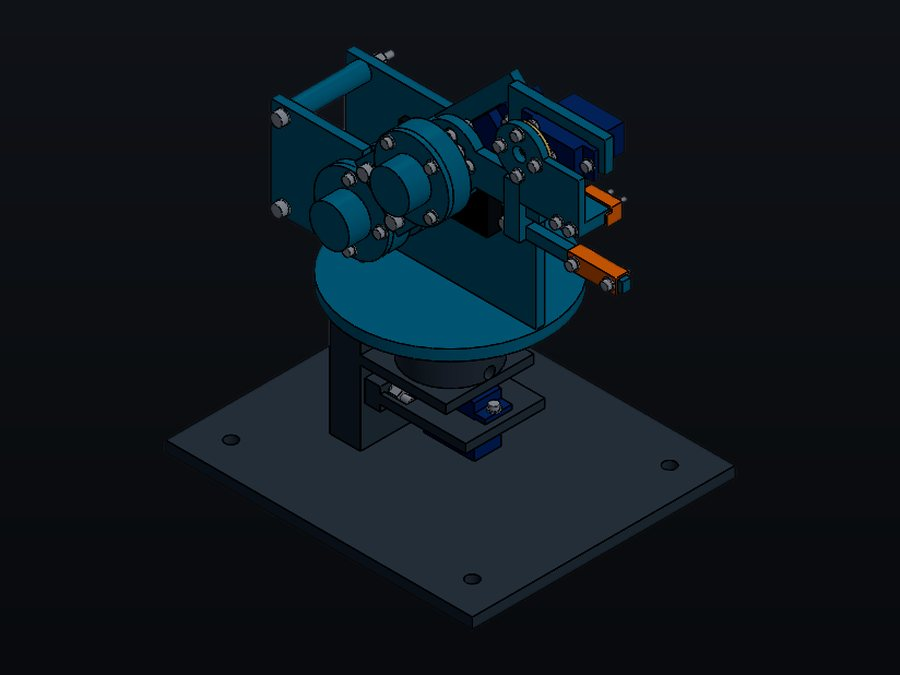
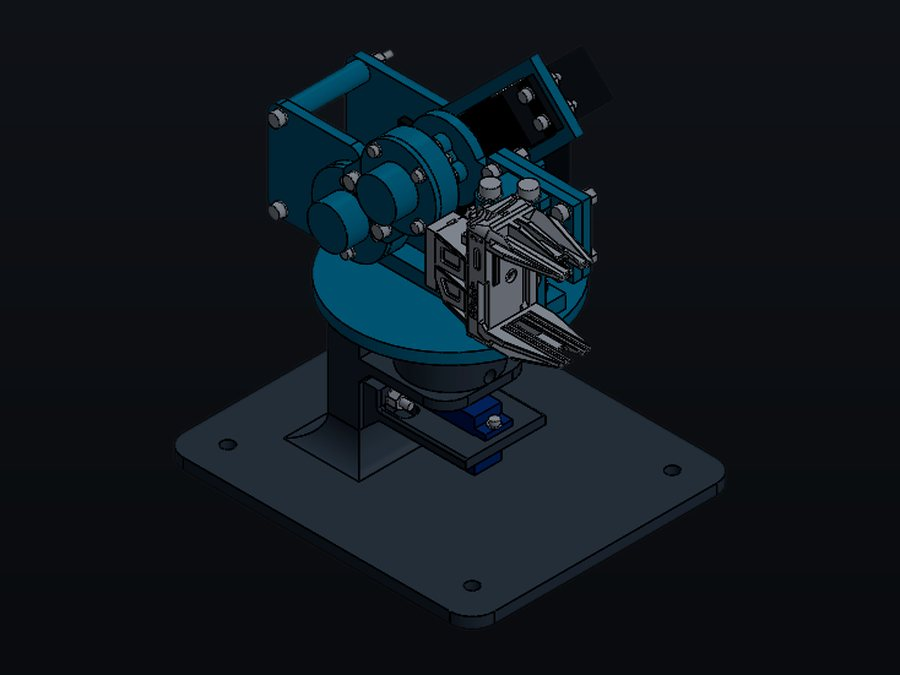
Rev 4; eoat structure changes
gripper, COTS, parallel grippers

diff --git a/project-automation-cell.html b/project-automation-cell.html
@@ -4,11 +4,11 @@
 <meta charset="UTF-8">
 <meta name="viewport" content="width=device-width, initial-scale=1.0">
 <title>EOAT Automation Cell — 4-DOF Arm Prototype — Luis Garcia</title>
-<meta name="description" content="Solo build of a 4-DOF servo arm and PLC-supervised pick cell: SolidWorks assembly of 199 components, first-principles torque budget, and a staged plan to measured validation.">
+<meta name="description" content="Solo-designed 4-DOF servo arm and PLC-supervised pick cell: a 198-component SolidWorks assembly with a modular parallel gripper and a first-principles torque budget.">
 <link rel="canonical" href="https://luisg54.github.io/engineering-portfolio/project-automation-cell.html">
 <meta property="og:title" content="EOAT Automation Cell — 4-DOF Arm Prototype — Luis Garcia">
-<meta property="og:description" content="Solo build of a 4-DOF servo arm and PLC-supervised pick cell: SolidWorks assembly of 199 components, first-principles torque budget, and a staged plan to measured validation.">
-<meta property="og:image" content="https://luisg54.github.io/engineering-portfolio/images/arm-hero.jpg">
+<meta property="og:description" content="Solo-designed 4-DOF servo arm and PLC-supervised pick cell: a 198-component SolidWorks assembly with a modular parallel gripper and a first-principles torque budget.">
+<meta property="og:image" content="https://luisg54.github.io/engineering-portfolio/images/arm-hero.jpg?v=revd">
 <meta property="og:url" content="https://luisg54.github.io/engineering-portfolio/project-automation-cell.html">
 <meta property="og:type" content="article">
 <meta name="twitter:card" content="summary_large_image">
@@ -101,9 +101,9 @@ a:focus-visible,button:focus-visible{outline:2px solid var(--accent);outline-off
 </nav>
 
 <div class="proj-hero" style="margin-top:52px;position:relative;overflow:hidden;background:#0a0a0a">
-  <img src="images/arm-hero.jpg" alt="Isometric SolidWorks render of the 4-DOF servo arm prototype on its bench base plate" style="width:100%;max-height:520px;object-fit:cover;object-position:center 45%;display:block" fetchpriority="high">
+  <img src="images/arm-hero.jpg?v=revd" alt="Isometric SolidWorks render of the Revision D arm prototype, showing the yaw platform, both pitch joints and the modular parallel gripper on its bench base plate" style="width:100%;max-height:520px;object-fit:cover;object-position:center 45%;display:block" fetchpriority="high">
   <div style="position:absolute;inset:0;background:linear-gradient(to bottom,transparent 35%,rgba(0,0,0,0.92) 100%)"></div>
-  <div style="position:absolute;top:16px;right:16px;display:inline-flex;align-items:center;gap:6px;background:rgba(0,0,0,0.5);border:1px solid rgba(255,255,255,0.15);border-radius:980px;padding:5px 12px;font-size:11px;color:rgba(255,255,255,0.55);letter-spacing:.04em;backdrop-filter:blur(8px)">SolidWorks 2026 · Revision B assembly</div>
+  <div style="position:absolute;top:16px;right:16px;display:inline-flex;align-items:center;gap:6px;background:rgba(0,0,0,0.5);border:1px solid rgba(255,255,255,0.15);border-radius:980px;padding:5px 12px;font-size:11px;color:rgba(255,255,255,0.55);letter-spacing:.04em;backdrop-filter:blur(8px)">SolidWorks 2026 · Revision D assembly</div>
   <div class="proj-hero-title">
     <div class="proj-hero-label">03 · Personal Project · Jun 2026 – Present</div>
     <h1 class="proj-hero-name">EOAT Automation Cell — 4-DOF Arm Prototype</h1>
@@ -118,19 +118,19 @@ a:focus-visible,button:focus-visible{outline:2px solid var(--accent);outline-off
   <div class="proj-section fade">
     <div class="metrics-row">
       <div class="big-metric"><div class="big-metric-num">4</div><div class="big-metric-label">Actuated DOF — yaw, shoulder, elbow, grip</div></div>
-      <div class="big-metric"><div class="big-metric-num">199</div><div class="big-metric-label">Components in the native assembly</div></div>
-      <div class="big-metric"><div class="big-metric-num">15</div><div class="big-metric-label">Printed part types, 21 instances</div></div>
-      <div class="big-metric"><div class="big-metric-num">2.2×</div><div class="big-metric-label">Shoulder torque margin (CAD estimate)</div></div>
+      <div class="big-metric"><div class="big-metric-num">198</div><div class="big-metric-label">Components in the native assembly</div></div>
+      <div class="big-metric"><div class="big-metric-num">15</div><div class="big-metric-label">Printed part types, 23 instances</div></div>
+      <div class="big-metric"><div class="big-metric-num">32 mm</div><div class="big-metric-label">Parallel jaw stroke (purchased tool)</div></div>
     </div>
     <div class="tags-row">
       <span class="tag">SolidWorks 2026</span><span class="tag">SolidWorks API / Python</span>
       <span class="tag">Design for 3D Printing</span><span class="tag">Tolerance &amp; Fit</span>
-      <span class="tag">Servo Sizing</span><span class="tag">Allen-Bradley Micro820</span>
+      <span class="tag">Servo Sizing</span><span class="tag">COTS Integration</span><span class="tag">Parallel Gripper</span><span class="tag">Allen-Bradley Micro820</span>
       <span class="tag">Arduino / C++</span><span class="tag">Test Planning</span>
     </div>
     <div class="prop-notice">
       <div class="prop-notice-icon">⏳</div>
-      <div class="prop-notice-text"><strong>Nothing on this page has been built or measured yet.</strong> The arm exists as a fully constrained native SolidWorks assembly with working joints; every number below is a CAD-derived estimate or a design target, and is labelled as such. The Results table stays empty until it is filled from physical test data.</div>
+      <div class="prop-notice-text"><strong>Nothing on this page has been built or measured yet.</strong> The arm exists as a fully constrained native SolidWorks assembly with working joints, now at Revision D; every number below is a CAD-derived estimate or a design target, and is labelled as such. No parts have been printed and no hardware has been purchased. The Results table stays empty until it is filled from physical test data.</div>
     </div>
     <a class="repo-link" href="https://github.com/luisg54/eoat-automation-cell" target="_blank" rel="noopener">
       <svg width="15" height="15" fill="currentColor" viewBox="0 0 16 16"><path d="M8 0C3.58 0 0 3.58 0 8c0 3.54 2.29 6.53 5.47 7.59.4.07.55-.17.55-.38 0-.19-.01-.82-.01-1.49-2.01.37-2.53-.49-2.69-.94-.09-.23-.48-.94-.82-1.13-.28-.15-.68-.52-.01-.53.63-.01 1.08.58 1.23.82.72 1.21 1.87.87 2.33.66.07-.52.28-.87.51-1.07-1.78-.2-3.64-.89-3.64-3.95 0-.87.31-1.59.82-2.15-.08-.2-.36-1.02.08-2.12 0 0 .67-.21 2.2.82.64-.18 1.32-.27 2-.27s1.36.09 2 .27c1.53-1.04 2.2-.82 2.2-.82.44 1.1.16 1.92.08 2.12.51.56.82 1.27.82 2.15 0 3.07-1.87 3.75-3.65 3.95.29.25.54.73.54 1.48 0 1.07-.01 1.93-.01 2.2 0 .21.15.46.55.38A8.01 8.01 0 0016 8c0-4.42-3.58-8-8-8z"/></svg>
@@ -153,30 +153,31 @@ a:focus-visible,button:focus-visible{outline:2px solid var(--accent);outline-off
   </div>
 
   <div class="proj-section fade">
-    <div class="proj-section-label">Current CAD — Revision B</div>
-    <p class="proj-p">The prototype is a <strong>4-DOF articulated arm</strong>: base yaw, shoulder pitch, elbow pitch, and a single-finger gripper, driven by three SG90 micro servos and one MG996R at the shoulder. It is modelled natively in SolidWorks 2026 as editable parts and a real mated assembly — not a static arrangement of meshes — so joint travel can actually be exercised in CAD.</p>
+    <div class="proj-section-label">Current CAD — Revision D</div>
+    <p class="proj-p">The prototype is a <strong>4-DOF articulated arm</strong>: base yaw, shoulder pitch, elbow pitch, and a gripper. It is modelled natively in SolidWorks 2026 as editable parts and a real mated assembly — not a static arrangement of meshes — so joint travel can actually be exercised in CAD.</p>
+    <p class="proj-p">Revision D is the fourth pass, and it changed the architecture rather than the details. The printed single-finger gripper is gone, replaced by a <strong>purchased parallel gripper on a removable printed fork</strong>, so the tool is now a swappable interface instead of part of the arm. Both pitch joints moved to <strong>MG996R servos sharing one common horn interface</strong> — the same OD20 / PCD14 metal horn and 32 mm standoff spacing at the shoulder and the elbow — and the old single yaw-platform-plus-upright part was split into a separate platform and a bolt-on upright so each one prints and services independently.</p>
 
     <div class="gallery">
       <figure class="shot">
-        <img src="images/arm-cover.jpg" alt="Isometric view of the arm assembly showing the base plate, yaw platform, bearing-supported shoulder and elbow, and gripper" loading="lazy">
-        <figcaption class="shot-cap"><b>Isometric — full assembly.</b> Base pedestal and bolt-down plate, yaw platform on a stacked 608ZZ pair, and the removable servo cassette underneath.</figcaption>
+        <img src="images/arm-cover.jpg?v=revd" alt="Isometric view of the Revision D assembly showing the base plate, yaw platform, both bearing-supported pitch joints and the parallel gripper" loading="lazy">
+        <figcaption class="shot-cap"><b>Isometric — full assembly.</b> Base pedestal and bolt-down plate, yaw platform on a stacked 608ZZ pair, removable yaw-servo cassette underneath, and the parallel gripper carried on the modular forearm.</figcaption>
       </figure>
       <figure class="shot">
-        <img src="images/arm-front.jpg" alt="Front orthographic view of the arm in the home pose with shoulder and elbow bearing cheeks visible" loading="lazy">
-        <figcaption class="shot-cap"><b>Front — home pose.</b> Shoulder and elbow each run on a steel dowel through a printed adapter into a 608ZZ, so the servo horn carries torque and the bearing carries the radial load.</figcaption>
+        <img src="images/arm-front.jpg?v=revd" alt="Front orthographic view of the Revision D arm in the home pose with the parallel gripper jaws open" loading="lazy">
+        <figcaption class="shot-cap"><b>Front — home pose, jaws open.</b> Shoulder and elbow each run on a steel dowel through a printed adapter into a 608ZZ, so the servo horn carries torque and the bearing carries the radial load. Jaw opening is a driven equation, 0–32 mm.</figcaption>
       </figure>
       <figure class="shot">
-        <img src="images/arm-right.jpg" alt="Right orthographic view of the arm showing the servo stack, standoffs and TPU gripper pads" loading="lazy">
-        <figcaption class="shot-cap"><b>Right — joint stack.</b> M3 standoffs set the cheek spacing; bearing keepers provide axial retention; the jaw pads are screw-captured TPU rather than glued.</figcaption>
+        <img src="images/arm-right.jpg?v=revd" alt="Right orthographic view of the Revision D arm showing the two MG996R servos, the 32 mm standoffs and the gripper fork" loading="lazy">
+        <figcaption class="shot-cap"><b>Right — joint stack.</b> Two MG996R cases stacked outboard, 32 mm standoffs setting both cheek spacings, and the gripper fork bolted to the forearm through four M3×16. The outboard mass here is what costs the shoulder its margin.</figcaption>
       </figure>
       <figure class="shot" style="display:flex;flex-direction:column;justify-content:center;padding:24px 22px">
         <div style="font-size:11px;font-weight:600;color:var(--accent);letter-spacing:.06em;text-transform:uppercase;margin-bottom:14px">Assembly at a glance</div>
         <div style="display:flex;flex-direction:column;gap:9px;font-size:13px;color:var(--text2);font-weight:300">
-          <div><b style="color:var(--text);font-weight:500">199</b> total components</div>
-          <div><b style="color:var(--text);font-weight:500">15</b> printed part types · 21 instances</div>
-          <div><b style="color:var(--text);font-weight:500">41</b> explicitly modelled fastener stacks</div>
-          <div><b style="color:var(--text);font-weight:500">98</b> fully constrained sketches across 16 files</div>
-          <div><b style="color:var(--text);font-weight:500">518 g</b> modelled mass at solid-print density</div>
+          <div><b style="color:var(--text);font-weight:500">198</b> total components · 207 mates</div>
+          <div><b style="color:var(--text);font-weight:500">15</b> printed part types · 23 instances</div>
+          <div><b style="color:var(--text);font-weight:500">45</b> explicitly modelled fastener stacks</div>
+          <div><b style="color:var(--text);font-weight:500">64</b> constrained sketches across the 6 new parts</div>
+          <div><b style="color:var(--text);font-weight:500">637 g</b> modelled mass at solid-print density</div>
         </div>
         <div style="margin-top:16px;padding-top:14px;border-top:1px solid var(--border);font-size:11.5px;color:var(--text3);line-height:1.55">Parts, mates and fastener stacks were built and audited through the SolidWorks API with Python, so the counts above come out of the model rather than out of a spreadsheet.</div>
       </figure>
@@ -200,10 +201,10 @@ a:focus-visible,button:focus-visible{outline:2px solid var(--accent);outline-off
         <div class="spec-card-title">Serviceability</div>
         <div class="spec-card-items">
           <div class="spec-card-item">Removable yaw servo cassette</div>
-          <div class="spec-card-item">Positive yaw crossbolt on the D-collar</div>
-          <div class="spec-card-item">Tool access checked per fastener</div>
-          <div class="spec-card-item">Screw-captured TPU jaw pads</div>
-          <div class="spec-card-item">M2.5 at the shoulder ears — larger nut corners foul the servo case</div>
+          <div class="spec-card-item">Yaw platform and upright are separate bolt-on parts</div>
+          <div class="spec-card-item">Gripper fork unbolts as a unit (4 × M3×16)</div>
+          <div class="spec-card-item">One horn interface serves both pitch joints</div>
+          <div class="spec-card-item">Crush spacers stop the tool ears clamping inward</div>
         </div>
       </div>
       <div class="spec-card">
@@ -212,27 +213,48 @@ a:focus-visible,button:focus-visible{outline:2px solid var(--accent);outline-off
           <div class="spec-card-item">20 g payload target (provisional)</div>
           <div class="spec-card-item">Solid-density mass bound, 1.25 load factor</div>
           <div class="spec-card-item">Budget = ⅓ of reference stall torque</div>
-          <div class="spec-card-item">Shoulder margin 2.15× · elbow 1.44×</div>
+          <div class="spec-card-item"><strong style="color:var(--amber);font-weight:500">Shoulder margin 1.15×</strong> — the binding constraint</div>
+          <div class="spec-card-item">Elbow margin 3.60× on the second MG996R</div>
+          <div class="spec-card-item">0.65 N per jaw needed at µ = 0.3</div>
           <div class="spec-card-item">Reference ratings, not measured torque</div>
         </div>
       </div>
     </div>
     <ul class="proj-buls">
       <li><strong>The bearing does the work the horn shouldn't.</strong> A servo output shaft is not a structural bearing. Every pitch joint pairs the horn with a dowel running in a 608ZZ, so the horn only ever sees torque — the reason the joints grew cheeks, standoffs and keepers instead of bolting a link straight to a horn.</li>
-      <li><strong>A 3:1 geared SG90 shoulder was evaluated and rejected</strong> — restricted travel and too little load margin. The MG996R was chosen on travel and margin, and adds an estimated $15–30 to the build.</li>
-      <li><strong>Joint travel was verified in the native model, not eyeballed.</strong> A separate configuration suppresses the command mates and enforces angle limits: yaw ±60°, shoulder −30° to +80°, elbow −100° to −5°, grip 0–25°. Nine poses and twelve transfer samples solved with zero solid overlaps.</li>
-      <li><strong>Those checks are discrete samples, not a swept proof.</strong> Continuous sweep, cable routing, and external fixtures are still excluded — which is why the first pickup pose I tried (−40°/−50°) turned out to clip the yaw platform and had to be revised to −30°/−60°.</li>
-      <li><strong>Structure is PETG, jaw pads are TPU.</strong> Printed at the WashU makerspace; a dedicated fit coupon is exported alongside the parts so the dowel and bearing fits get trialled before a full set is printed.</li>
+      <li><strong>Buying the gripper was the right call, and I resisted it for three revisions.</strong> A printed single-finger jaw closing on a round bearing was always going to be the least repeatable part of the cell. A purchased parallel gripper gives true parallel jaws, a 32 mm driven stroke and its own feedback servo for $29.95 — cheaper than the print time I had already spent failing to match it. The design effort moved to the interface: a removable fork, the real 4.2 mm jaw axes, M4×35 through-bolts, and two 13 mm crush spacers inside the 13.4 mm ear gaps so tightening cannot squeeze the tool body.</li>
+      <li><strong>One horn interface, two joints.</strong> Both pitch joints now use the same OD20 / PCD14 metal horn on 20.5 mm spacing with 32 mm standoffs. That is what closed the horn-interface hold below: instead of reconciling three different horn patterns, there is one pattern to get right, and getting it right fixes both joints.</li>
+      <li><strong>Joint travel was verified in the native model, not eyeballed.</strong> A separate configuration suppresses the command mates and enforces angle limits: yaw ±60°, shoulder −15° to +80°, elbow −100° to −5°, with jaw opening driven 0–32 mm by equation. Six saved pose configurations reopen with zero mate errors, all 198 references resolving and no part feature errors.</li>
+      <li><strong>23 of 24 sampled poses are clean.</strong> Ten motion poses and fourteen lift/yaw transfer samples were checked by driving the native angle dimensions and independently comparing every component transform against the kinematics. The one exception is 0.18 mm³ of overlap <em>inside the purchased gripper's own imported geometry</em> when it is commanded fully shut to 0 mm — supplier model artefact, no printed part involved, and not a pose the tool needs.</li>
+      <li><strong>The shoulder range shrank, and that is a real cost.</strong> The larger elbow servo case fouls the platform sooner, so the shoulder lower limit moved from −30° to −15°. Combined with 637 g of modelled mass on a 150 mm lever, the shoulder margin fell from 2.15× to <strong>1.15×</strong>. It still clears the ⅓-of-stall budget, but it is now the number that decides whether this arm works.</li>
+      <li><strong>Those checks are discrete samples, not a swept proof.</strong> Continuous sweep, cable routing, tool access and external fixtures are still excluded — which is why an earlier pickup pose turned out to clip the yaw platform and had to be revised.</li>
+      <li><strong>Structure is PETG.</strong> Printed at the WashU makerspace; a dedicated fit coupon is exported alongside the parts so the dowel and bearing fits get trialled before a full set is printed.</li>
     </ul>
   </div>
 
   <div class="proj-section fade">
-    <div class="proj-section-label">Open Problem — Horn Interface</div>
+    <div class="proj-section-label">Horn Interface — Closed</div>
     <div class="problem-box">
-      <div class="problem-box-label">Fabrication hold · caught in CAD, before ordering</div>
-      <p class="proj-p" style="margin-bottom:0">The shoulder is modelled against a nominal 26 mm horn plate on a 20 mm bolt circle. The metal disc horn actually sold for this servo class is 20 mm OD on a 14 mm bolt circle, 4.5 mm thick — it will not drop into the modelled pattern, and substituting it would also shift the axial stack by about 2.5 mm. The SG90 horns need the same treatment: the model assumes an 8 mm hole radius and M2 through-fasteners, the supplier drawing shows 8.3 mm and roughly 1 mm pilots.</p>
+      <div class="problem-box-label">The problem, as it stood at Revision B</div>
+      <p class="proj-p" style="margin-bottom:0">The shoulder was modelled against a nominal 26 mm horn plate on a 20 mm bolt circle. The metal disc horn actually sold for this servo class is 20 mm OD on a 14 mm bolt circle — it would not drop into the modelled pattern, and substituting it also shifted the axial stack by about 2.5 mm. Every horn-connected part was held from release, and three different horn patterns across four servos meant three separate interfaces to reconcile.</p>
     </div>
-    <p class="proj-p">Every horn-connected part is <strong>held from release</strong> until a real horn is selected and measured, the link pattern, washer relief and screw engagement are updated, and the affected mates are re-solved. Parts that do not touch a horn are unaffected. This is the cheapest possible place to find that mismatch — the alternative is finding it with a printed part and a bag of the wrong screws.</p>
+    <div class="solution-box">
+      <div class="solution-box-label">How Revision D closed it</div>
+      <p class="proj-p" style="margin-bottom:0">Both pitch joints were standardised onto the real <strong>OD20 / PCD14 M3-tapped metal horn</strong> — the part that is actually sold — at 20.5 mm spacing on 32 mm standoffs, and the printed links were rebuilt around it rather than around a nominal envelope. Dropping the printed gripper removed a fourth horn interface entirely. What was three mismatched patterns is now one measured pattern used twice, and the supplier drawing is saved next to the model in <code>source-reference/</code>.</p>
+    </div>
+    <p class="proj-p">This is worth stating plainly because it is the whole argument for modelling properly before printing: the mismatch was found by a CAD check, cost four revisions of rework, and cost <strong>no material and no money</strong>. Finding it with a printed link and a bag of the wrong screws is the alternative. <strong>Seated horn height and the bearing/dowel fits are still assumptions</strong> — those need calipers on the real parts, not another revision.</p>
+  </div>
+
+  <div class="proj-section fade">
+    <div class="proj-section-label">Open Problems</div>
+    <div class="problem-box">
+      <div class="problem-box-label">Shoulder margin · 1.15×</div>
+      <p class="proj-p" style="margin-bottom:0">Two MG996R cases and a 30 g tool sit outboard on a 150 mm lever, and modelled mass is up to 637 g. Against a budget of one third of reference stall torque the shoulder now has 1.15× where Revision B had 2.15×. That is a CAD estimate built on a solid-density mass bound and a datasheet rating, so the true figure could fall either side of it — which is exactly why it has to be measured on the built arm before anything downstream is trusted.</p>
+    </div>
+    <div class="problem-box">
+      <div class="problem-box-label">Tool availability</div>
+      <p class="proj-p" style="margin-bottom:0">The gripper is a $29.95 candidate that the supplier showed as backordered on 2026-09-12, and nothing has been purchased. The fork adapter is built around its published STEP and dimension drawing rather than a measured unit, so the interface is verified against the supplier's geometry, not against hardware in hand.</p>
+    </div>
   </div>
 
   <div class="proj-section fade">
@@ -293,11 +315,19 @@ a:focus-visible,button:focus-visible{outline:2px solid var(--accent);outline-off
     </div>
     <div class="lesson-card">
       <div class="lesson-title">A model that can't move hasn't been checked</div>
-      <div class="lesson-body">Building real mates instead of a fixed arrangement is slower, and it is what caught the pickup pose colliding with the yaw platform. Driving the joints through named angle dimensions and then independently comparing all 199 component transforms against the kinematics turns "it looks fine" into a check that either passes or does not.</div>
+      <div class="lesson-body">Building real mates instead of a fixed arrangement is slower, and it is what caught the pickup pose colliding with the yaw platform. Driving the joints through named angle dimensions and then independently comparing all 198 component transforms against the kinematics turns "it looks fine" into a check that either passes or does not.</div>
+    </div>
+    <div class="lesson-card">
+      <div class="lesson-title">Four revisions to admit the right part was for sale</div>
+      <div class="lesson-body">Revisions A through C all had a printed single-finger gripper, and each one made it slightly better without making it good. Swapping to a $29.95 parallel gripper solved repeatability, stroke and feedback in one move, and turned the interesting problem into an interface problem — mounting, crush spacers, fastener access — which is the problem worth having. Knowing which parts to design and which to buy is a judgement call, and I got it wrong for three passes.</div>
+    </div>
+    <div class="lesson-card">
+      <div class="lesson-title">Every improvement spends something</div>
+      <div class="lesson-body">The second MG996R and the purchased tool made the arm more capable and more serviceable. They also added 119 g, moved mass outboard, cut the shoulder's usable range from −30° to −15°, and halved its torque margin. Nothing about Revision D is free, and writing down what it cost is the only way the next revision starts from the truth rather than from the highlight reel.</div>
     </div>
     <div class="lesson-card">
       <div class="lesson-title">Separate what you assumed from what you measured</div>
-      <div class="lesson-body">The load report labels every input: CAD solid volume, manufacturer reference mass, assumed friction coefficient. The torque margins are real conclusions from those inputs, but they are not test data, and writing them down that way keeps me from quoting a 2.15× margin as if a servo had actually been loaded. The same discipline is why the Results table above is still blank.</div>
+      <div class="lesson-body">The load report labels every input: CAD solid volume, manufacturer reference mass, assumed friction coefficient. The torque margins are real conclusions from those inputs, but they are not test data, and writing them down that way keeps me from quoting a 1.15× margin as if a servo had actually been loaded. The same discipline is why the Results table above is still blank.</div>
     </div>
   </div>
 

diff --git a/index.html b/index.html
@@ -261,18 +261,18 @@ footer p{font-size:12px;color:var(--text3)}
     </article>
 
     <a class="proj-card fade" data-cat="robotics design manufacturing" href="project-automation-cell.html">
-      <div class="proj-cover portrait"><img src="images/arm-cover.jpg" alt="Isometric SolidWorks render of the 4-DOF servo arm prototype on its bench base plate" loading="lazy"><div class="proj-cover-overlay"></div></div>
+      <div class="proj-cover portrait"><img src="images/arm-cover.jpg?v=revd" alt="Isometric SolidWorks render of the Revision D 4-DOF servo arm prototype with its modular parallel gripper" loading="lazy"><div class="proj-cover-overlay"></div></div>
       <div class="proj-body">
         <div class="proj-num">03 · Personal Project · Jun 2026 – Present</div>
         <h3 class="proj-name">EOAT Automation Cell — 4-DOF Arm Prototype</h3>
-        <p class="proj-desc">Solo-designed pick cell: a 4-DOF servo arm in SolidWorks with bearing-supported joints, first-principles torque sizing, and a staged plan to PLC-supervised control and measured validation. Currently in the design phase — nothing built or measured yet.</p>
+        <p class="proj-desc">Solo-designed pick cell: a 4-DOF servo arm in SolidWorks with bearing-supported joints, a modular parallel gripper, first-principles torque sizing, and a staged plan to PLC-supervised control and measured validation. Now on Revision D — nothing built or measured yet.</p>
         <div class="proj-metrics">
           <span class="metric amber">Design phase</span>
-          <span class="metric">199-component assembly</span>
+          <span class="metric">198-component assembly</span>
           <span class="metric">4 actuated DOF</span>
         </div>
         <div class="proj-tags">
-          <span class="tag">SolidWorks 2026</span><span class="tag">SolidWorks API</span><span class="tag">3D Printing</span><span class="tag">Servo Sizing</span><span class="tag">Micro820 PLC</span>
+          <span class="tag">SolidWorks 2026</span><span class="tag">SolidWorks API</span><span class="tag">3D Printing</span><span class="tag">Servo Sizing</span><span class="tag">Parallel Gripper</span><span class="tag">Micro820 PLC</span>
         </div>
         <div class="proj-cta">View project <svg width="14" height="14" fill="none" stroke="currentColor" stroke-width="2.5" viewBox="0 0 24 24"><path d="M5 12h14M12 5l7 7-7 7"/></svg></div>
       </div>
